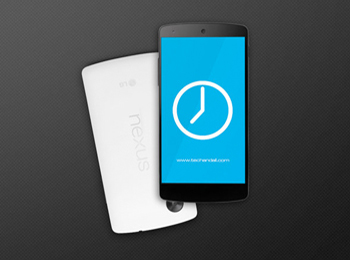
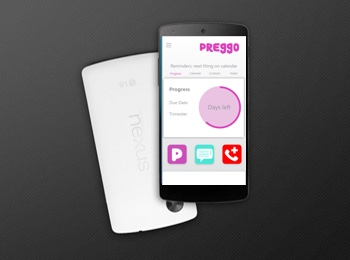
Update video

Changed region(s): [[0.4571, 0.1231, 0.7143, 0.7385]]

diff --git a/index.html b/index.html
@@ -9,11 +9,11 @@
   <meta content="" name="description">
 
   <!-- Facebook Opengraph integration: https://developers.facebook.com/docs/sharing/opengraph -->
-  <meta property="og:title" content="">
-  <meta property="og:image" content="">
-  <meta property="og:url" content="">
-  <meta property="og:site_name" content="">
-  <meta property="og:description" content="">
+  <meta property="og:title" content="Preggo Inc.">
+  <meta property="og:image" content="img/og.png">
+  <meta property="og:url" content="www.preggoalert.com">
+  <meta property="og:site_name" content="Preggo">
+  <meta property="og:description" content="Preggo helps expecting mothers stay safe during their delivery with the Preggo Light and Alert App.">
 
   <!-- Twitter Cards integration: https://dev.twitter.com/cards/  -->
   <meta name="twitter:card" content="summary">
@@ -114,7 +114,9 @@
     </div>
     <div class="container about-container wow fadeInUp">
       <div class="row">
-        <div class="col-md-6 col-md-push-6 about-content">
+        <div class="col-md-6">
+<iframe style="height: -webkit-fill-available;" class="js-gallery-video-iframe" width="100%" height="100%" scrolling="no" allowfullscreen="" allowtransparency="true" frameborder="0" mozallowfullscreen="" src="//view.vzaar.com/11384906/player" type="text/html"></iframe>        </div>
+        <div class="col-md-6 about-content">
           <h2 class="about-title">Never miss important moments.</h2>
           <p class="about-text">
             The idea developed from my wife; she had to drive herself to the hospital, becuase I was working double shifts at my job. She was unable to find a ride and was put in a dangerous situation. I would have done anything to be there with her. Therefore, our products
@@ -124,11 +126,14 @@
             The Preggo Light is a magnetic flashing light that notifies other drivers on the road that you are in delivery. The Pink Preggo light urges drivers to let your vehical pass similar to emergency service vehicals. Our Preggo Alert App can assist you in
             notifing family and friends in your big day. All you do is add contacts and hit alert. It can also be used help track symptoms, mood, and weight. It finds the closest hospitals and provides directions with the fastest route.
           </p>
-          <!-- <p class="about-text">
+          <p class="about-text">
             Our Preggo Alert App can assist you in notifing family and friends in your big day. All you do is add contacts and hit alert. It can also be used help track symptoms, mood, and weight. It finds the closest hospitals and provides directions with the fastest route.
-          </p> -->
+          </p>
+
+          
         </div>
       </div>
+
     </div>
   </section>
 
@@ -214,7 +219,7 @@
   <!--==========================
   Porfolio Section
 ============================-->
-  <!-- <section id="portfolio">
+  <section id="portfolio">
     <div class="container wow fadeInUp">
       <div class="row">
         <div class="col-md-12">
@@ -225,65 +230,34 @@
       </div>
 
       <div class="row">
-        <div class="col-md-3">
-          <a class="portfolio-item" style="background-image: url(img/portfolio-1.jpg);" href="">
-            <div class="details">
-              <h4>Portfolio 1</h4>
-              <span>Alored dono par</span>
-            </div>
-          </a>
-        </div>
 
-        <div class="col-md-3">
-          <a class="portfolio-item" style="background-image: url(img/portfolio-2.jpg);" href="">
-            <div class="details">
-              <h4>Portfolio 2</h4>
-              <span>Alored dono par</span>
-            </div>
-          </a>
-        </div>
+
 
         <div class="col-md-3">
           <a class="portfolio-item" style="background-image: url(img/portfolio-3.jpg);" href="">
             <div class="details">
-              <h4>Portfolio 3</h4>
-              <span>Alored dono par</span>
+              <h4>Order Now!</h4>
+              <span>Preggo Light on a car.</span>
             </div>
           </a>
         </div>
 
-        <div class="col-md-3">
-          <a class="portfolio-item" style="background-image: url(img/portfolio-4.jpg);" href="">
-            <div class="details">
-              <h4>Portfolio 4</h4>
-              <span>Alored dono par</span>
-            </div>
-          </a>
-        </div>
 
         <div class="col-md-3">
           <a class="portfolio-item" style="background-image: url(img/portfolio-5.jpg);" href="">
             <div class="details">
-              <h4>Portfolio 5</h4>
-              <span>Alored dono par</span>
+              <h4>Our Product</h4>
+              <span>It's a life saver.</span>
             </div>
           </a>
         </div>
 
-        <div class="col-md-3">
-          <a class="portfolio-item" style="background-image: url(img/portfolio-6.jpg);" href="">
-            <div class="details">
-              <h4>Portfolio 6</h4>
-              <span>Alored dono par</span>
-            </div>
-          </a>
-        </div>
 
         <div class="col-md-3">
           <a class="portfolio-item" style="background-image: url(img/portfolio-7.jpg);" href="">
             <div class="details">
-              <h4>Portfolio 7</h4>
-              <span>Alored dono par</span>
+              <h4>Android</h4>
+              <span>Preggo Alert App.</span>
             </div>
           </a>
         </div>
@@ -291,15 +265,15 @@
         <div class="col-md-3">
           <a class="portfolio-item" style="background-image: url(img/portfolio-8.jpg);" href="">
             <div class="details">
-              <h4>Portfolio 8</h4>
-              <span>Alored dono par</span>
+              <h4>iOS</h4>
+              <span>Preggo Alert App</span>
             </div>
           </a>
         </div>
 
       </div>
     </div>
-  </section> -->
+  </section>
 
   <!--==========================
   Testimonials Section
@@ -310,36 +284,36 @@
         <div class="col-md-12">
           <h3 class="section-title">Testimonials</h3>
           <div class="section-title-divider"></div>
-          <p class="section-description">Erdo lide, nora porodo filece, salvam esse se, quod concedimus ses haec dicturum fuisse</p>
+          <p class="section-description">People use Preggo Alert and our Light every day.</p>
         </div>
       </div>
 
       <div class="row">
-        <div class="col-md-3">
-          <div class="profile">
-            <div class="pic"><img src="img/client-1.jpg" alt=""></div>
-            <h4>Saul Goodman</h4>
-            <span>Lawless Inc</span>
-          </div>
-        </div>
-        <div class="col-md-9">
-          <div class="quote">
-            <b><img src="img/quote_sign_left.png" alt=""></b> Proin iaculis purus consequat sem cure digni ssim donec porttitora entum suscipit rhoncus. Accusantium quam, ultricies eget id, aliquam eget nibh et. Maecen aliquam, risus at semper. <small><img src="img/quote_sign_right.png" alt=""></small>
-          </div>
-        </div>
-      </div>
-
-      <div class="row">
-        <div class="col-md-9">
-          <div class="quote">
-            <b><img src="img/quote_sign_left.png" alt=""></b> Sed ut perspiciatis unde omnis iste natus error sit voluptatem accusantium doloremque laudantium, totam rem aperiam, eaque ipsa quae ab illo inventore veritatis architecto beatae. <small><img src="img/quote_sign_right.png" alt=""></small>
-          </div>
-        </div>
         <div class="col-md-3">
           <div class="profile">
             <div class="pic"><img src="img/client-2.jpg" alt=""></div>
-            <h4>Sara Wilsson</h4>
-            <span>Odeo Inc</span>
+            <h4>Sarah Goodman</h4>
+            <span>Auburn AL.</span>
+          </div>
+        </div>
+        <div class="col-md-9">
+          <div class="quote">
+            <b><img src="img/quote_sign_left.png" alt=""></b> Drivers moved out of my way when I had the Preggo Light on top of my car. I would recommend 10 out 10 to all expecting mothers. It really does help. <small><img src="img/quote_sign_right.png" alt=""></small>
+          </div>
+        </div>
+      </div>
+
+      <div class="row">
+        <div class="col-md-9">
+          <div class="quote">
+            <b><img src="img/quote_sign_left.png" alt=""></b> I would have missed the most important day in my life if I was alerted by the Preggo App. It was so exciting to finally get that notification! <small><img src="img/quote_sign_right.png" alt=""></small>
+          </div>
+        </div>
+        <div class="col-md-3">
+          <div class="profile">
+            <div class="pic"><img src="img/client-1.jpg" alt=""></div>
+            <h4>Joe Monroe</h4>
+            <span>Nashville TN.</span>
           </div>
         </div>
       </div>
@@ -438,7 +412,6 @@
             </div>
 
           </div>
-          <div class="text-center"><button type="submit">Send Message</button></div>
 
         </div>
 
@@ -464,6 +437,7 @@
                 <div class="validation"></div>
               </div>
               <div style="width:100%;height:50px;"></div>
+              <div class="text-center"><button type="submit">Send Message</button></div>
 
             </form>
 

diff --git a/css/style.css b/css/style.css
@@ -673,7 +673,7 @@ body.mobile-nav-active #mobile-nav-toggle {
 }
 
 #about .about-container {
-  background: url(../img/about-img.jpg) left top no-repeat;
+  /*background: url(../img/about-img.jpg) left top no-repeat;*/
 }
 
 #about .about-content {
